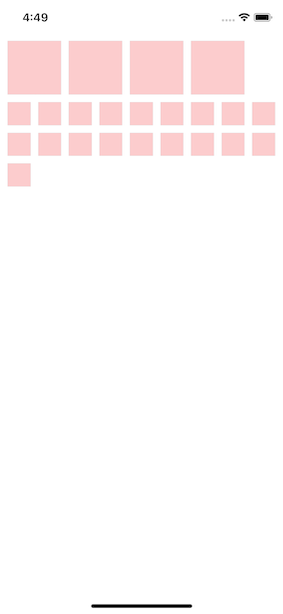
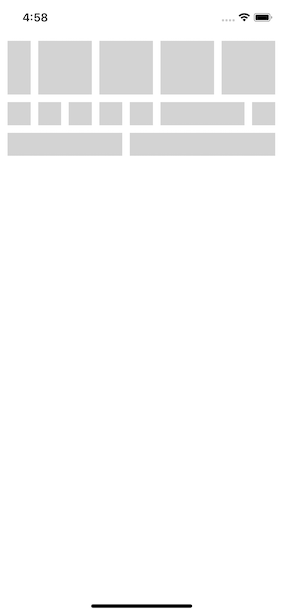
Changes in images and src

Changed region(s): [[0.0283, 0.0619, 0.9894, 0.3094], [0.1131, 0.0, 0.1696, 0.0309]]

diff --git a/Component/Container.js b/Component/Container.js
@@ -1,59 +1,66 @@
-import React, { PureComponent } from "react";
-import { SafeAreaView, ScrollView, View, Text } from "react-native";
-import { styles } from "./SectionStyle";
-import Constant from "./Constant";
-import PropTypes from "prop-types";
+import React, { PureComponent } from 'react'
+import { SafeAreaView, ScrollView, View } from 'react-native'
+import { styles } from './SectionStyle'
+import Constant from './Constant'
+import PropTypes from 'prop-types'
 
-export default class Container extends PureComponent {
-    render() {
-        const isNested = this.props.isNested;
-        const isFullHeight = this.props.isFullHeight;
-        const zero = 0;
-        let height;
-        if (isFullHeight) {
-            height = "100%";
-        } else {
-            height = isNested ? "100%" : this.props.height;
-        }
-        return (
-            <SafeAreaView
-                style={{
-                    height: height,
-                    ...this.props.style,
-                    backgroundColor: "#fff",
-                }}
-            >
-                {isNested || isFullHeight ? (
-                    <View
-                        style={[
-                            styles.scrollContent,
-                            { ...this.props.style, marginHorizontal: isNested ? zero : Constant.GUTTER_WIDTH },
-                        ]}
-                    >
-                        {this.props.children}
-                    </View>
-                ) : (
-                    <ScrollView
-                        ref={scrollView => {
-                            this.scrollView = scrollView;
-                        }}
-                        contentContainerStyle={[styles.scrollContent, { ...this.props.style }]}
-                        removeClippedSubviews={false}
-                        alwaysBounceVertical={false} // for iOS
-                    >
-                        {this.props.children}
-                    </ScrollView>
-                )}
-            </SafeAreaView>
-        );
-    }
+class Container extends PureComponent {
+  render() {
+    const { isNested, backgroundColor } = this.props
+    const zero = 0
+    let height = isNested ? '100%' : this.props.height
+    const color = '#fff'
+    return (
+      <SafeAreaView
+        style={{
+          height: height,
+          ...this.props.style,
+          backgroundColor: color,
+        }}
+      >
+        {isNested ? (
+          <View
+            style={[
+              styles.scrollContent,
+              {
+                backgroundColor: backgroundColor,
+                ...this.props.style,
+                marginHorizontal: isNested ? zero : Constant.GUTTER_WIDTH,
+              },
+            ]}
+          >
+            {this.props.children}
+          </View>
+        ) : (
+          <ScrollView
+            ref={(scrollView) => {
+              this.scrollView = scrollView
+            }}
+            contentContainerStyle={[styles.scrollContent, { ...this.props.style }]}
+            removeClippedSubviews={false}
+            alwaysBounceVertical={false} // for iOS
+          >
+            {this.props.children}
+          </ScrollView>
+        )}
+      </SafeAreaView>
+    )
+  }
 }
 
-Container.prototypes = {
-    height: PropTypes.number,
-    width: PropTypes.number,
-};
+export default Container
+
+Container.propTypes = {
+  height: PropTypes.number,
+  isNested: PropTypes.bool,
+  backgroundColor: PropTypes.string,
+  style: PropTypes.oneOf(PropTypes.object, PropTypes.array, PropTypes.number),
+  children: PropTypes.oneOfType([PropTypes.arrayOf(PropTypes.node), PropTypes.node]),
+}
 Container.defaultProps = {
-    height: Constant.CONTAINER_HEIGHT,
-    width: Constant.CONTAINER_WIDTH,
-};
+  height: Constant.CONTAINER_HEIGHT,
+  isNested: false,
+  backgroundColor: 'white',
+  style:null,
+  children:null
+}

diff --git a/Component/Constant.js b/Component/Constant.js
@@ -1,46 +1,46 @@
-import { Dimensions } from "react-native";
+import { Dimensions } from 'react-native'
 
 // constants
-const DEVICE_WIDTH = Dimensions.get("window").width;
-const DEVICE_HEIGHT = Dimensions.get("window").height;
+const DEVICE_WIDTH = Dimensions.get('window').width
+const DEVICE_HEIGHT = Dimensions.get('window').height
 
-const SQUARE_WIDTH_PERCENT = 8.1333 / 100;
-const GUTTER_WIDTH_PERCENT = 2.6667 / 100;
-const CONTAINER_WIDTH_PERCENTAGE = 100 / 100;
+const SQUARE_WIDTH_PERCENT = 8.1333 / 100
+const GUTTER_WIDTH_PERCENT = 2.6667 / 100
+const CONTAINER_WIDTH_PERCENTAGE = 100 / 100
 
-const SQUARE_WIDTH = DEVICE_WIDTH * SQUARE_WIDTH_PERCENT;
-const GUTTER_WIDTH = DEVICE_WIDTH * GUTTER_WIDTH_PERCENT;
+const SQUARE_WIDTH = DEVICE_WIDTH * SQUARE_WIDTH_PERCENT
+const GUTTER_WIDTH = DEVICE_WIDTH * GUTTER_WIDTH_PERCENT
 
-const CONTAINER_WIDTH = DEVICE_WIDTH * CONTAINER_WIDTH_PERCENTAGE;
+const CONTAINER_WIDTH = DEVICE_WIDTH * CONTAINER_WIDTH_PERCENTAGE
 
-const CONTAINER_HEIGHT = DEVICE_HEIGHT;
+const CONTAINER_HEIGHT = DEVICE_HEIGHT
 
 // functions
 export function getSectionSize(xSquares = 1, ySquares = 1, fullScreenWidth = false) {
-    let width;
-    if (fullScreenWidth === true) {
-        width = DEVICE_WIDTH;
-    } else {
-        width = xSquares < 0 ? 0 : xSquares * SQUARE_WIDTH + (xSquares - 1) * GUTTER_WIDTH;
-    }
-    let height = null || ySquares < 0 ? 0 : ySquares * SQUARE_WIDTH + (ySquares - 1) * GUTTER_WIDTH;
+  let width
+  if (fullScreenWidth === true) {
+    width = DEVICE_WIDTH
+  } else {
+    width = xSquares < 0 ? 0 : xSquares * SQUARE_WIDTH + (xSquares - 1) * GUTTER_WIDTH
+  }
+  let height = null || ySquares < 0 ? 0 : ySquares * SQUARE_WIDTH + (ySquares - 1) * GUTTER_WIDTH
 
-    return {
-        width: width,
-        height: height,
-        margin: GUTTER_WIDTH,
-    };
+  return {
+    width: width,
+    height: height,
+    margin: GUTTER_WIDTH,
+  }
 }
 
 export default {
-    DEVICE_WIDTH,
-    DEVICE_HEIGHT,
-    SQUARE_WIDTH_PERCENT,
-    GUTTER_WIDTH_PERCENT,
-    CONTAINER_WIDTH_PERCENTAGE,
-    SQUARE_WIDTH,
-    GUTTER_WIDTH,
-    CONTAINER_WIDTH,
-    CONTAINER_HEIGHT,
-    getSectionSize,
-};
+  DEVICE_WIDTH,
+  DEVICE_HEIGHT,
+  SQUARE_WIDTH_PERCENT,
+  GUTTER_WIDTH_PERCENT,
+  CONTAINER_WIDTH_PERCENTAGE,
+  SQUARE_WIDTH,
+  GUTTER_WIDTH,
+  CONTAINER_WIDTH,
+  CONTAINER_HEIGHT,
+  getSectionSize,
+}

diff --git a/Component/Square.js b/Component/Square.js
@@ -2,18 +2,20 @@ import React, { PureComponent } from "react";
 import { View } from "react-native";
 import { styles } from "./SectionStyle";
 import Constant from "./Constant";
+import PropTypes from "prop-types";
 
 export default class Square extends PureComponent {
     render() {
-        const { xSquares, ySquares, fullScreenWidth, allowHeightExcess } = this.props;
+        const { xSquares, ySquares, fullScreenWidth, allowHeightExcess, backgroundColor } = this.props;
         let dimensions = Constant.getSectionSize(xSquares, ySquares, fullScreenWidth);
         const maxHeight = allowHeightExcess ? null : dimensions.height;
+
         return (
             <View
                 style={[
                     styles.secondaryContainer,
                     {
-                        backgroundColor: "pink",
+                        backgroundColor: backgroundColor,
                         margin: dimensions.margin,
                         minHeight: dimensions.height,
                         maxHeight: maxHeight,
@@ -28,7 +30,20 @@ export default class Square extends PureComponent {
         );
     }
 }
-Square.prototypes = {
-    height: PropTypes.number,
-    width: PropTypes.number,
+Square.propTypes = {
+    xSquares: PropTypes.number,
+    ySquares: PropTypes.number,
+    backgroundColor: PropTypes.string,
+    allowHeightExcess: PropTypes.bool,
+    fullScreenWidth: PropTypes.bool,
+    style: PropTypes.oneOf(PropTypes.object, PropTypes.array, PropTypes.number),
+    children: PropTypes.oneOfType([PropTypes.arrayOf(PropTypes.node), PropTypes.node]),
+};
+Square.defaultProps = {
+    xSquares: 1,
+    ySquares: 1,
+    backgroundColor: "#D3D3D3",
+    allowHeightExcess: false,
+    fullScreenWidth: false,
+    style: null,
 };

diff --git a/Component/SectionStyle.js b/Component/SectionStyle.js
@@ -1,16 +1,20 @@
-import { StyleSheet } from "react-native";
-import Constant from "./Constant";
+import { StyleSheet } from 'react-native'
+import Constant from './Constant'
 
 export const styles = StyleSheet.create({
-    fullScreenWidth: {},
-    scrollContent: {
-        flexDirection: "row",
-        flexWrap: "wrap",
-        width: Constant.CONTAINER_WIDTH,
-    },
-    secondaryContainer: {
-        marginBottom: 0,
-        marginRight: 0,
-        padding: 0,
-    },
-});
+  fullScreenWidth: {
+    margin: 0,
+    width: Constant.CONTAINER_WIDTH,
+  },
+  scrollContent: {
+    flexDirection: 'row',
+    flexWrap: 'wrap',
+    width: Constant.CONTAINER_WIDTH,
+  },
+  secondaryContainer: {
+    marginBottom: 0,
+    marginRight: 0,
+    padding: 0,
+  },
+})
+
